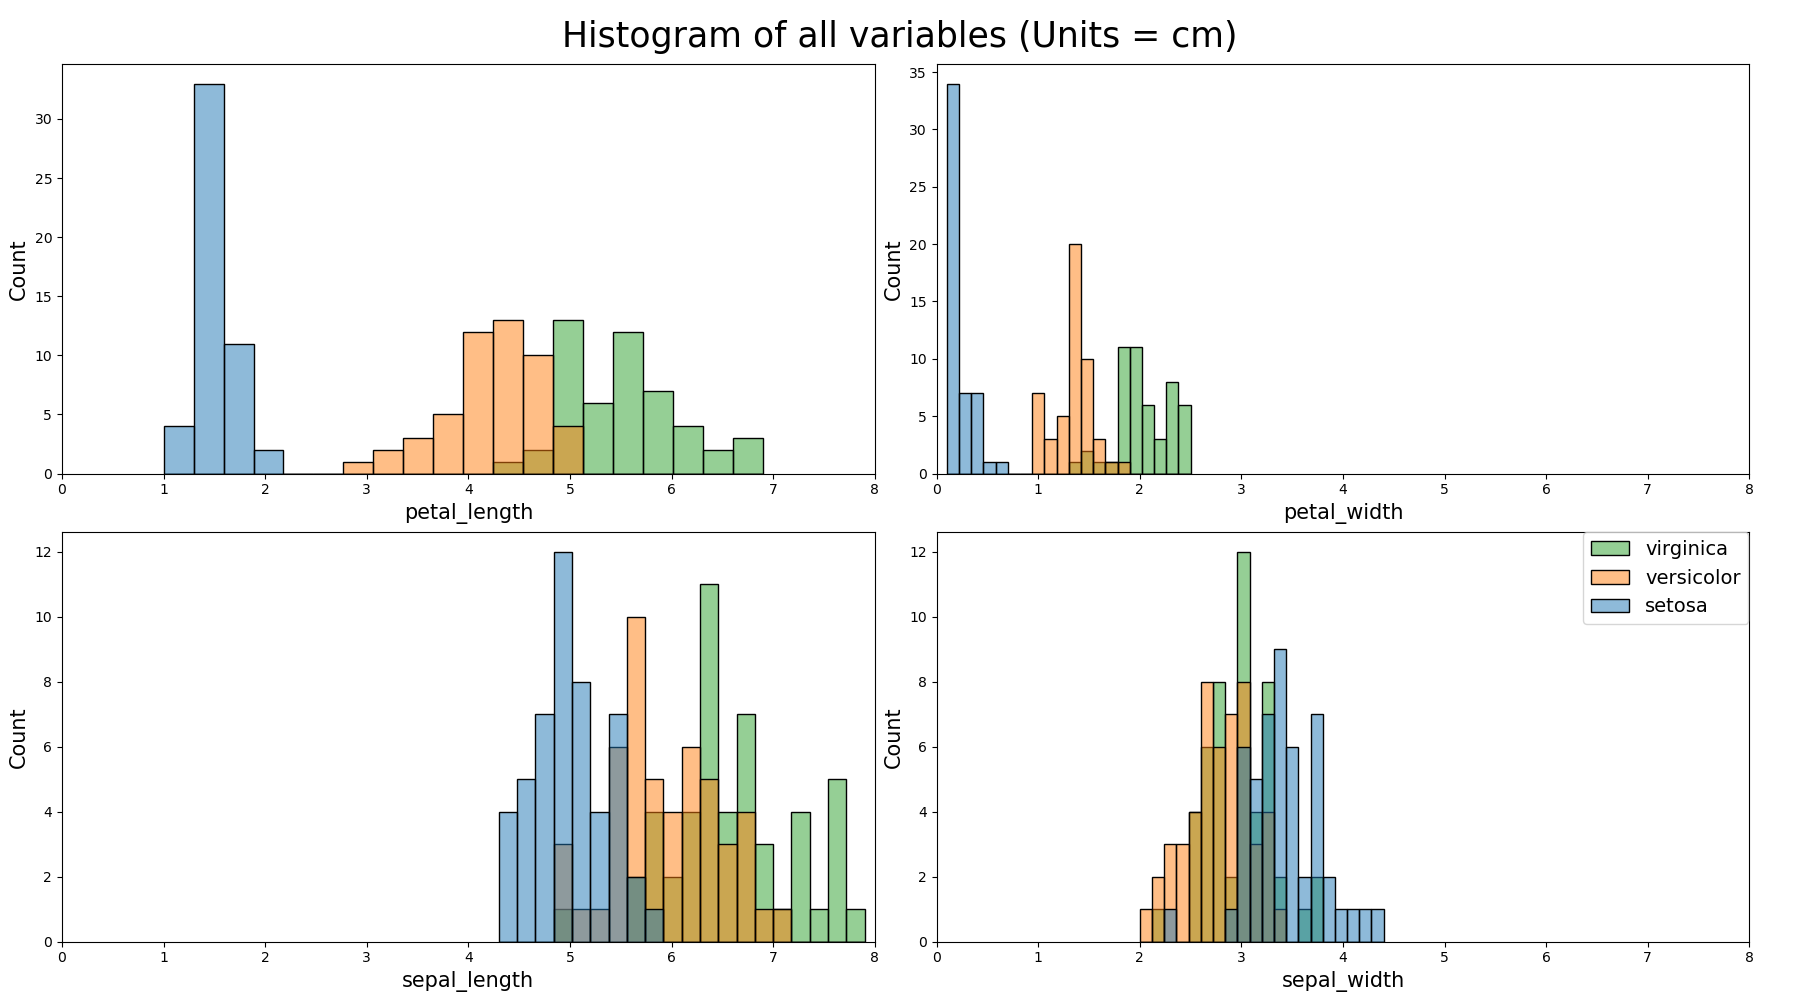
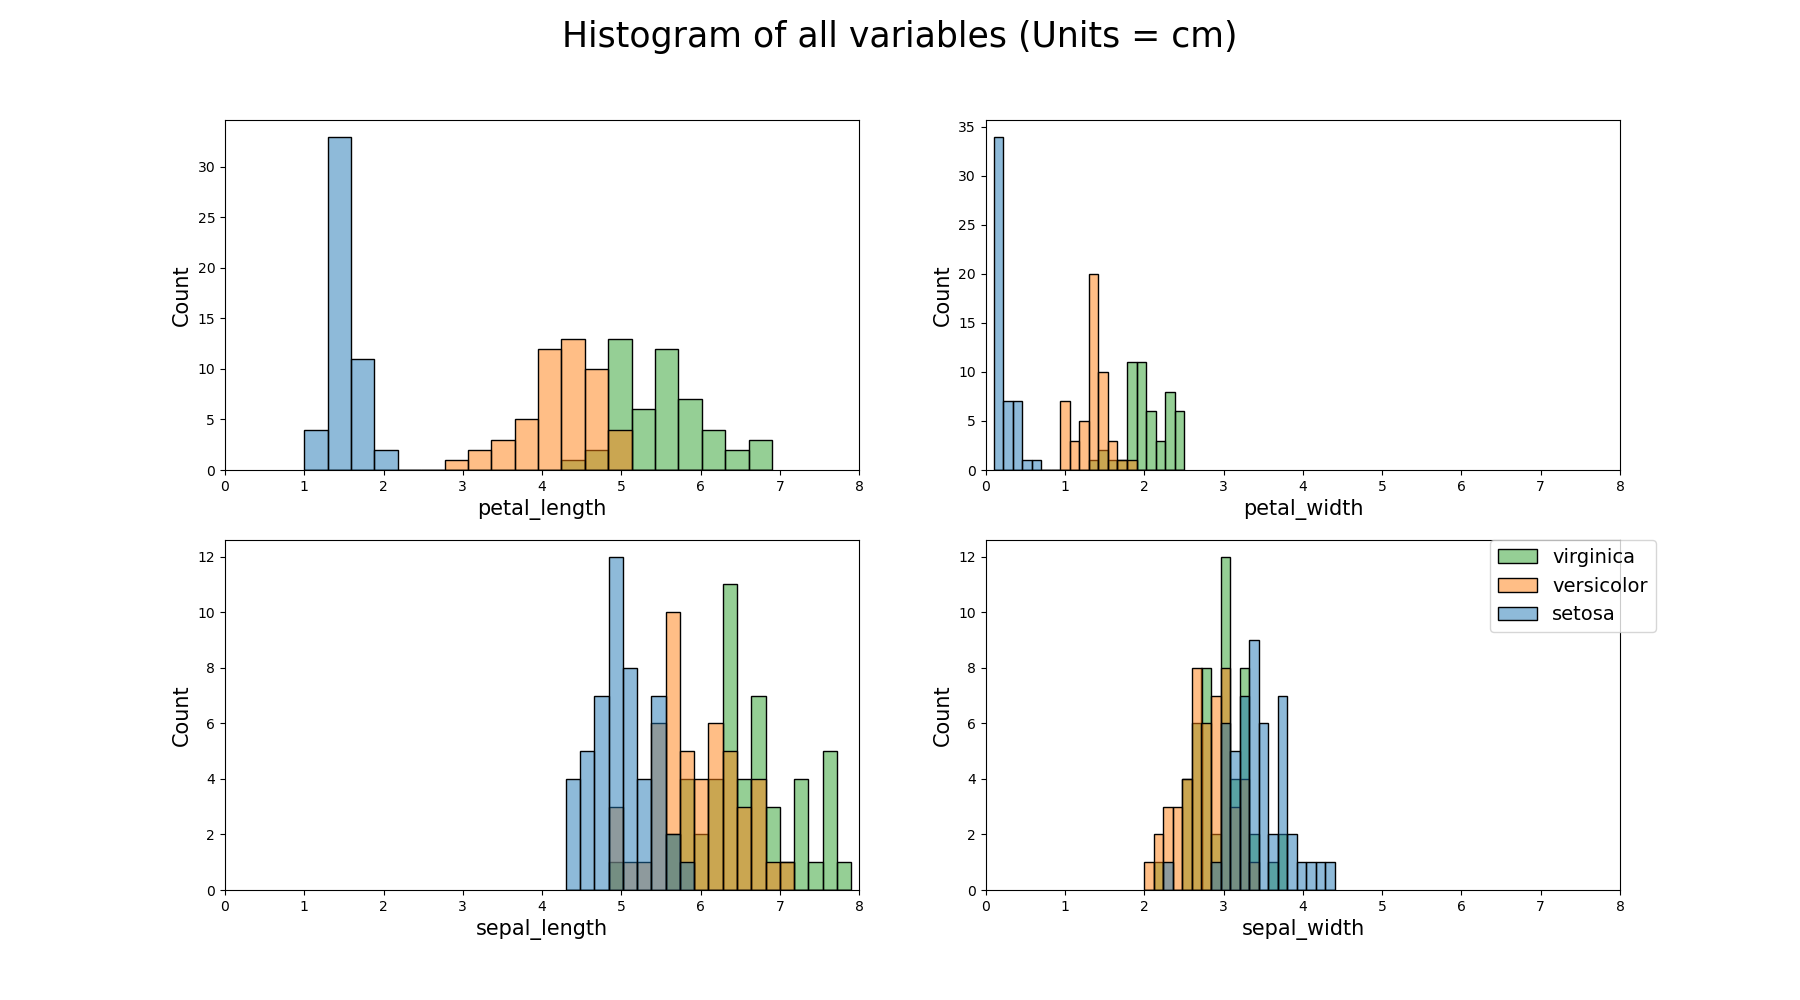
test

diff --git a/Project/analysis.py b/Project/analysis.py
@@ -71,7 +71,7 @@ def scatter_plot():
     sns.scatterplot(ax=axes[1, 0], data=iris_df, x='sepal_length', y='sepal_width', hue = 'species',legend = False)
     sns.scatterplot(ax=axes[1, 1], data=iris_df, x='sepal_length', y='petal_width', hue = 'species',legend = False)
     sns.scatterplot(ax=axes[1, 2], data=iris_df, x='sepal_width',  y='petal_width', hue = 'species')
-    #fig.tight_layout()
+    fig.tight_layout()
     plt.legend(fontsize='12', loc = 2 ,bbox_to_anchor=(0.675, 1),borderaxespad=0.,)
 
 
